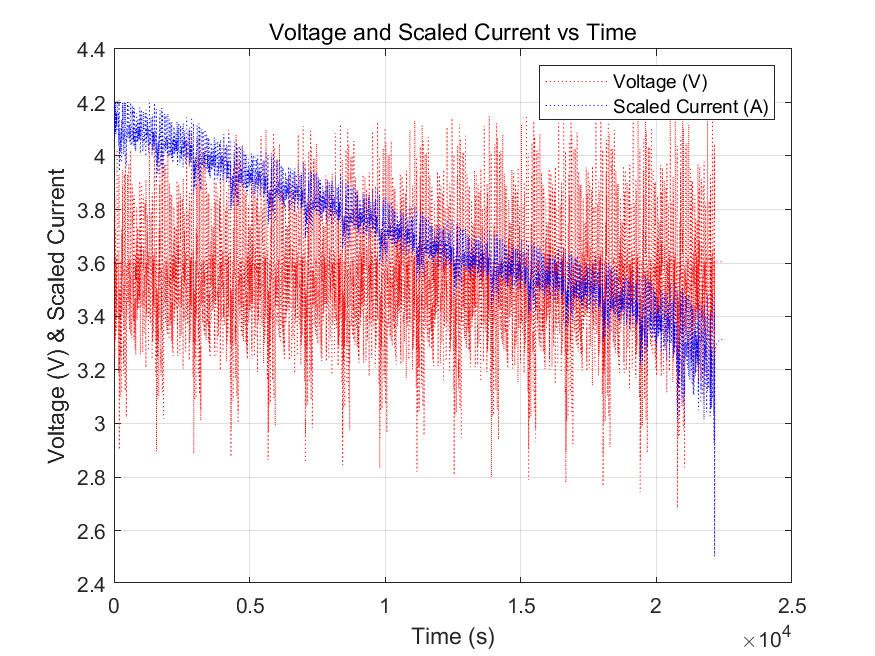
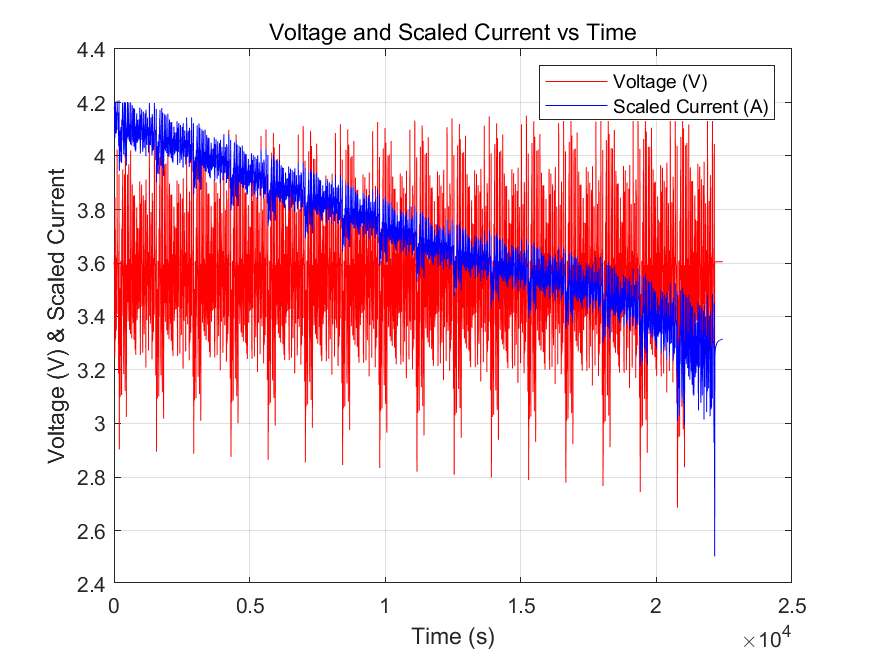
edit
edit

Changed region(s): [[0.1234, 0.1524, 0.8331, 0.7012]]

diff --git a/nmc/UDDS_V_I_vsT.m b/nmc/UDDS_V_I_vsT.m
@@ -2,7 +2,7 @@
 fileName = '03-21-17_00.29 25degC_UDDS_Pan18650PF.mat';
 data = load(fileName);
 
-% Time, Voltage, Current 데이터 추출
+% 데이터 추출
 time = data.meas.Time;       % 시간 데이터
 voltage = data.meas.Voltage; % 전압 데이터
 current = data.meas.Current; % 전류 데이터
@@ -13,22 +13,22 @@ figure;
 % 왼쪽 y축: 전류
 yyaxis left;
 plot(time, current, 'LineWidth', 0.5, 'Color', 'r'); % 전류 플롯
-ylabel('Current (A)'); % 왼쪽 y축 레이블
-ylim([min(current) max(current)]); % y축 범위 설정
-grid on;
+ylabel('Current (A)', 'Color', 'r'); % 왼쪽 y축 레이블 (빨간색)
+set(gca, 'YColor', 'r'); % 왼쪽 y축 눈금 색상을 빨간색으로 설정
+grid on; % 격자 추가
 
 % 오른쪽 y축: 전압
 yyaxis right;
 plot(time, voltage, 'LineWidth', 0.5, 'Color', 'b'); % 전압 플롯
-ylabel('Voltage (V)'); % 오른쪽 y축 레이블
-ylim([min(voltage) max(voltage)]); % y축 범위 설정
+ylabel('Voltage (V)', 'Color', 'b'); % 오른쪽 y축 레이블 (파란색)
+set(gca, 'YColor', 'b'); % 오른쪽 y축 눈금 색상을 파란색으로 설정
 
 % 공통 x축 레이블 및 제목
 xlabel('Time (s)');
-title('Voltage and Current vs Time');
+title('Voltage and Current vs Time (UDDS)');
 legend('Current (A)', 'Voltage (V)', 'Location', 'best');
 
 % 그래프 저장
-outputFileName = 'Voltage_and_Current_with_Dual_YAxis_UDDS.png';
+outputFileName = 'Voltage_and_Current_with_Colored_YAxis_UDDS.png';
 saveas(gcf, outputFileName);
-disp(['전압 및 전류 (이중 y축) vs 시간 그래프가 저장되었습니다: ', outputFileName]);
+disp(['전압 및 전류 (색상 통일) vs 시간 그래프가 저장되었습니다: ', outputFileName]);

diff --git a/nmc/HPPC_V_I_vsT.m b/nmc/HPPC_V_I_vsT.m
@@ -1,0 +1,34 @@
+% MAT 파일 로드
+fileName = '03-11-17_08.47 25degC_5Pulse_HPPC_Pan18650PF.mat';
+data = load(fileName);
+
+% 데이터 추출
+time = data.meas.Time;       % 시간 데이터
+voltage = data.meas.Voltage; % 전압 데이터
+current = data.meas.Current; % 전류 데이터
+
+% 그래프 생성
+figure;
+
+% 왼쪽 y축: 전류
+yyaxis left;
+plot(time, current, 'LineWidth', 1.5, 'Color', 'r'); % 전류 플롯
+ylabel('Current (A)', 'Color', 'r'); % 왼쪽 y축 레이블 (빨간색)
+set(gca, 'YColor', 'r'); % 왼쪽 y축 눈금 색상을 빨간색으로 설정
+grid on; % 격자 추가
+
+% 오른쪽 y축: 전압
+yyaxis right;
+plot(time, voltage, 'LineWidth', 1.5, 'Color', 'b'); % 전압 플롯
+ylabel('Voltage (V)', 'Color', 'b'); % 오른쪽 y축 레이블 (파란색)
+set(gca, 'YColor', 'b'); % 오른쪽 y축 눈금 색상을 파란색으로 설정
+
+% 공통 x축 레이블 및 제목
+xlabel('Time (s)');
+title('Voltage and Current vs Time (5Pulse HPPC)');
+legend('Current (A)', 'Voltage (V)', 'Location', 'best');
+
+% 그래프 저장
+outputFileName = 'Voltage_and_Current_with_Colored_YAxis_5Pulse_HPPC.png';
+saveas(gcf, outputFileName);
+disp(['전압 및 전류 (색상 통일) vs 시간 그래프가 저장되었습니다: ', outputFileName]);

diff --git a/nmc/OCV_V_I_vsT.m b/nmc/OCV_V_I_vsT.m
@@ -1,0 +1,34 @@
+% MAT 파일 로드
+fileName = '05-08-17_13.26 C20 OCV Test_C20_25dC.mat';
+data = load(fileName);
+
+% 데이터 추출
+time = data.meas.Time;       % 시간 데이터
+voltage = data.meas.Voltage; % 전압 데이터
+current = data.meas.Current; % 전류 데이터
+
+% 그래프 생성
+figure;
+
+% 왼쪽 y축: 전류
+yyaxis left;
+plot(time, current, 'LineWidth', 1.5, 'Color', 'r'); % 전류 플롯
+ylabel('Current (A)', 'Color', 'r'); % 왼쪽 y축 레이블 (빨간색)
+set(gca, 'YColor', 'r'); % 왼쪽 y축 눈금 색상을 빨간색으로 설정
+grid on; % 격자 추가
+
+% 오른쪽 y축: 전압
+yyaxis right;
+plot(time, voltage, 'LineWidth', 1.5, 'Color', 'b'); % 전압 플롯
+ylabel('Voltage (V)', 'Color', 'b'); % 오른쪽 y축 레이블 (파란색)
+set(gca, 'YColor', 'b'); % 오른쪽 y축 눈금 색상을 파란색으로 설정
+
+% 공통 x축 레이블 및 제목
+xlabel('Time (s)');
+title('OCV Voltage and Current vs Time');
+legend('Current (A)', 'Voltage (V)', 'Location', 'best');
+
+% 그래프 저장
+outputFileName = 'Voltage_and_Current_with_Colored_YAxis_C20_OCV.png';
+saveas(gcf, outputFileName);
+disp(['전압 및 전류 (색상 통일) vs 시간 그래프가 저장되었습니다: ', outputFileName]);
